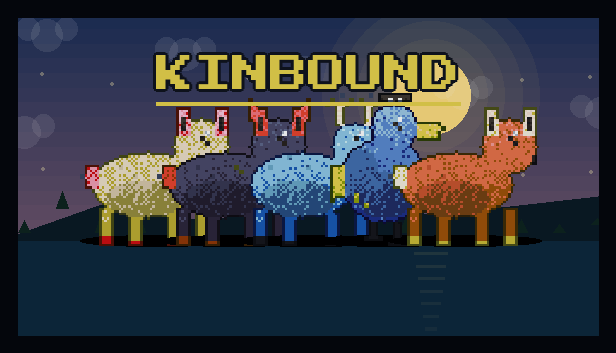
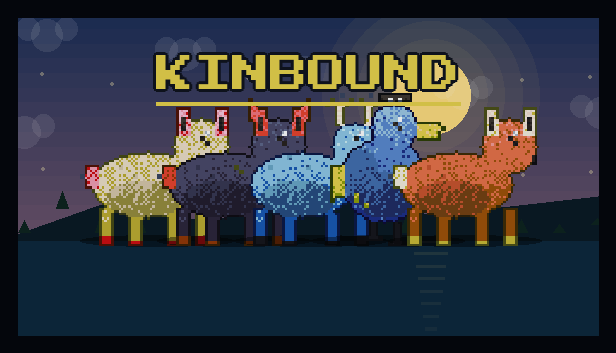
S24: audit-fix batch — 2 HIGH / 7 MED / 8 LOW from pass #3
HIGH:
- m_join was never registered in SHELL_ACTS — the pause JOIN row was a
  dead click and touch rigs had zero join path. Registered; smoke now
  drives run_click (the real routing), not shell_act directly.
- touch_sprint drained 12 SP/s but the speed term only read keyboard
  sprint — pure stamina tax at 1.0x. Speed term now honors it; smoke
  asserts displacement, not the flag.

MED:
- _process ran the _menu_key transition without the stick release, so
  a mid-drift pause/panel swap latched the joystick into a phantom run;
  shared _release_stick() at both transition sites, load_game clears
  touch state too.
- touch_ui disabled ALL mouse LMB attacks — including real mice on
  touchscreen laptops. Taps are eaten only inside virtual-control
  zones (touch_zone_hit); anything else still strikes.
- placed_by stored a session pid — hollow persistence. Now placed_tag
  stores the keeper tag (peer_tags), save "by" round-trips the string,
  demolish requires a hello'd tag match. Old int saves fail closed to
  host-owned.
- gen_store shadow ellipses wrote raw RGBA (black discs); now drawn on
  an overlay and composited. Kin positions clamped on-canvas so
  alpha_composite can't throw on narrow banners.

LOW:
- pause rows extracted to pause_rows() — tests assert data, not a
  headless draw (which spams draw-context errors).
- can_dodge() shared by key/pad/touch (was a copied ruleset).
- touch_layout cached per viewport size (AGENTS rule 4: no per-frame
  alloc).
[…]

diff --git a/tools/gen_store.py b/tools/gen_store.py
@@ -72,7 +72,6 @@ def draw_scene(W, H):
 
 
 def stamp_kin(img, sea_y, W, H):
-    d = ImageDraw.Draw(img, "RGBA")
     n = len(LINEUP)
     scale = max(2, int(H / 64 * 0.55))  # kin are 80x64 — scale to scene height
     for i, sid in enumerate(LINEUP):
@@ -86,8 +85,14 @@ def stamp_kin(img, sea_y, W, H):
         # stand them on the ridge line, spread across the middle-left half
         x = int(W * (0.10 + i * (0.5 / max(1, n - 1))))
         y = int(sea_y - H * 0.09 - h * 0.75)
-        # dark ground shadow keeps them planted
-        d.ellipse([x + w * 0.1, y + h * 0.93, x + w * 0.9, y + h], fill=(0, 0, 0, 110))
+        x = min(max(0, x), W - w)   # alpha_composite refuses off-canvas sources
+        y = min(max(0, y), H - h)
+        # ground shadow — draw on an overlay so the alpha actually blends
+        # (ImageDraw on an RGBA base writes raw tuples, no compositing)
+        sh = Image.new("RGBA", img.size, (0, 0, 0, 0))
+        ImageDraw.Draw(sh).ellipse([x + w * 0.1, y + h * 0.93, x + w * 0.9, y + h],
+                                   fill=(0, 0, 0, 110))
+        img.alpha_composite(sh)
         img.alpha_composite(spr, (x, y))
 
 

diff --git a/ROADMAP.md b/ROADMAP.md
@@ -197,7 +197,8 @@ build-tools/apksigner).
   sleep claims route through `apply_sleep_claim`'s chain-sleep immunity
   (host tranq uses the same gate). sphere_catch cap_lv clamps to 1..6 —
   the real range (1 + statue≤5), not a plausible-looking 20. demolish refuses anchors outright and any
-  structure not stamped `placed_by = sender` (net_place stamps it).
+  structure not stamped `placed_tag = peer_tags[sender]` (net_place stamps
+  it — the tag, not the pid, since pids die with the session).
   Disconnect: `_on_peer_disconnected` retracts the field pal then
   `orphan_guest_kin` boxes every owned kin under its tag for rejoin
   (`rebind_owner` reclaims on hello); `_on_server_disconnected` purges
@@ -244,3 +245,22 @@ build-tools/apksigner).
   into `store/`. Found + fixed a real bug: ImageDraw writes 4-tuples
   raw onto RGBA (no blend), so the vignette rect blacked the frame —
   now a whole-frame blend. Pixel-verified, not blind-generated.
+- S24 audit-fix batch — DONE: third context-free pass (S22–S23 scope)
+  found 2H/7M/8L, all landed. `m_join` was in `shell_act` but missing
+  from `SHELL_ACTS` — the JOIN row was dead and touch had no join door
+  (now also reachable via run_click, smoke exercises the real path).
+  Touch sprint billed 12 SP/s while the speed term ignored it — now
+  real ×1.7, asserted by displacement. `_process` ran the menu-swap
+  sync without the stick release (mid-drift pause latched a phantom
+  run) — shared `_release_stick` at both transition sites; load_game
+  clears touch state too. Real mice regained LMB: taps are eaten only
+  inside virtual-control zones (`touch_zone_hit`), not globally.
+  `placed_by` (session pid) became `placed_tag` (keeper tag) — save
+  round-trips the tag, demolish requires a hello'd tag match. Minor:
+  pause rows extracted to `pause_rows()` (no headless draw in tests),
+  `can_dodge()` shared across key/pad/touch, `touch_layout` cached,
+  menu button moved out from under the minimap, gen_store shadows
+  composite via overlay + kin clamped on-canvas, seam check samples
+  the wrap neighborhood, atk-cap band tightened 740..800, `or true`
+  tautology removed. Smoke +12 (routing gates, stick park, sprint
+  speed, mouse-vs-tap, join row + run_click path).

diff --git a/AGENTS.md b/AGENTS.md
@@ -236,3 +236,24 @@ Godot 4.7.2, GDScript, headless-verified. Run the smoke suite before committing:
     (`capture_level = 1 + statue≤5`). When a bound is meant to match
     honest play, compute it from the data (perk caps, item tables,
     level max) — a plausible-looking constant IS the exploit.
+48. **Session-surviving identity is the tag, not the pid.** Structures
+    stamped `placed_by = pid` kept raze rights only until the peer
+    rejoined with a new id — the persistence was hollow. Anything that
+    must outlive the connection (roster, build ownership) keys on
+    `peer_tags[pid]`; pids are for live-session checks only.
+49. **Test the routing layer, not the callee.** `m_join` lived in
+    `shell_act` but was never registered in `SHELL_ACTS` — the click
+    path was dead while `hudn.shell_act("m_join")` stayed green. Verb
+    tests must drive `run_click` / `_unhandled_input`, and any new
+    shell act needs its registry entry in the same edit.
+50. **A new input verb is three contracts: flag, resource, effect.**
+    Touch sprint set `touch_sprint` and billed 12 SP/s while the speed
+    term never read it — pure stamina tax at 1.0×. When a verb drains
+    a resource, assert the payoff it buys, not just the flag and the
+    cost.
+51. **Transition handlers must live in every transition site.**
+    `_unhandled_input` released the joystick on menu swaps, but
+    `_process` performs the same `_menu_key` sync one frame earlier —
+    the release never ran and mid-drift pauses latched a phantom run.
+    Any state/panel transition cleanup belongs in a shared helper
+    (`_release_stick`) called from BOTH sites.

diff --git a/docs/reviews/launch-sweep.md b/docs/reviews/launch-sweep.md
@@ -70,7 +70,9 @@ the interaction-verb layer was not. Closed in this pass:
   elevation is finite+clamped. S21 authority: every client→host request
   is per-sender throttled (catch ~1.4s, build/demolish ~1s, harvest/
   loot/roster 8/s+10); `demolish` refuses anchors and anything not
-  stamped `placed_by = sender`; disconnect orphans the guest's roster
+  stamped `placed_tag = peer_tags[sender]` (the keeper tag — pids die
+  with the session, tags survive rejoin; save `by` round-trips the tag);
+  disconnect orphans the guest's roster
   under its tag (rejoin reclaims via hello), purges field kin into the
   box, and drops all host replicas; a guest's pal provokes the guest
   (`owner_id` rides hit/skill_hit); foreign partners can't graze the
